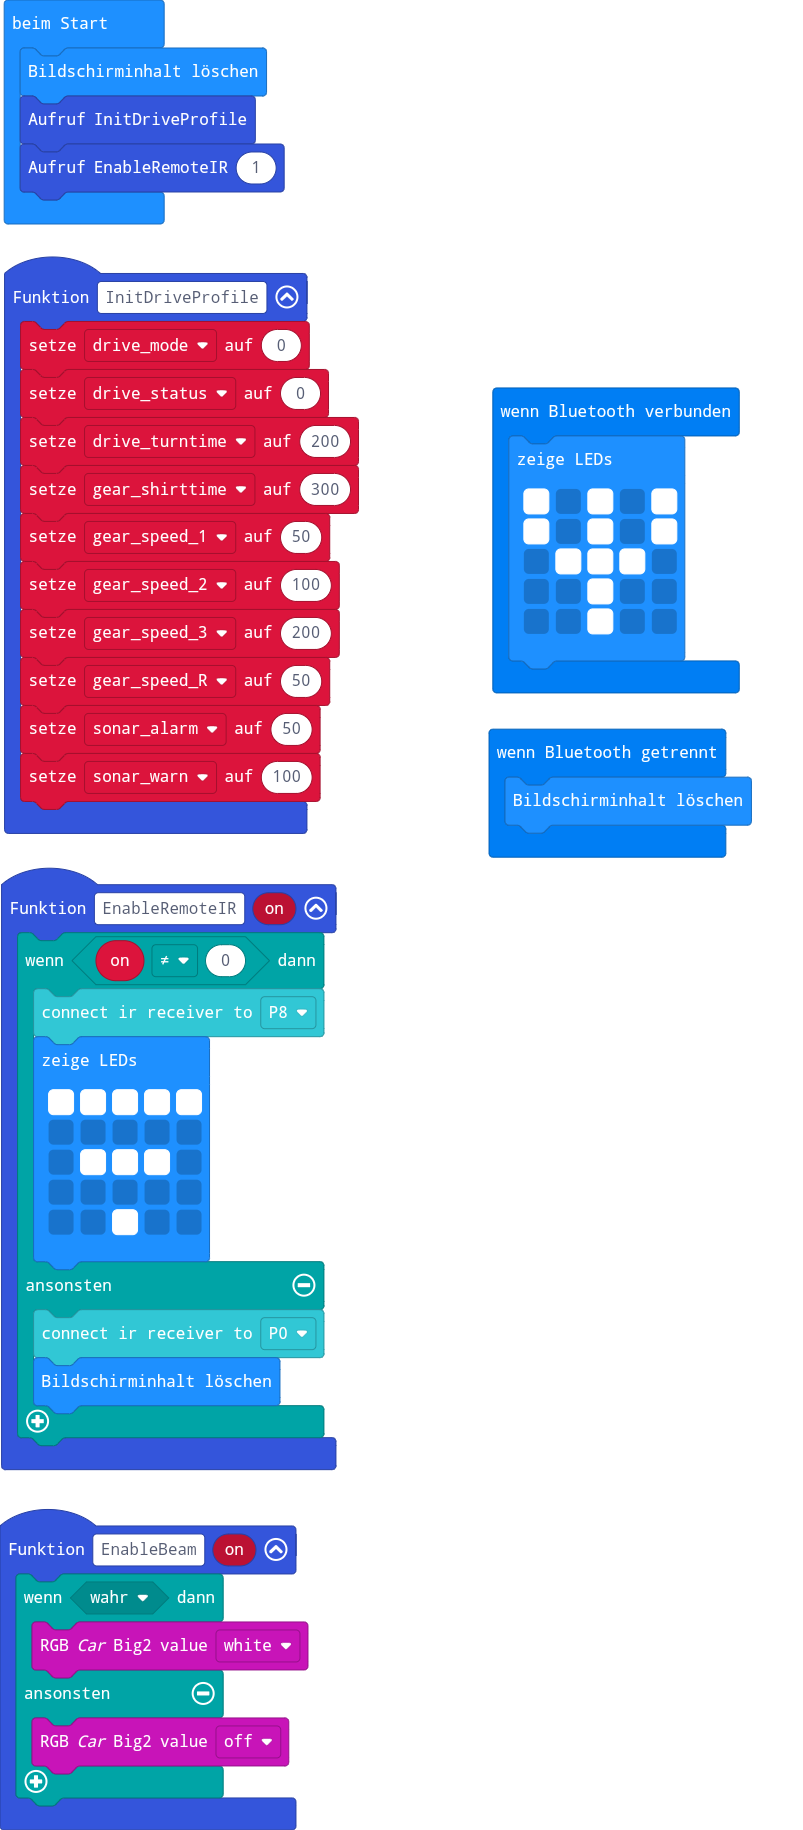
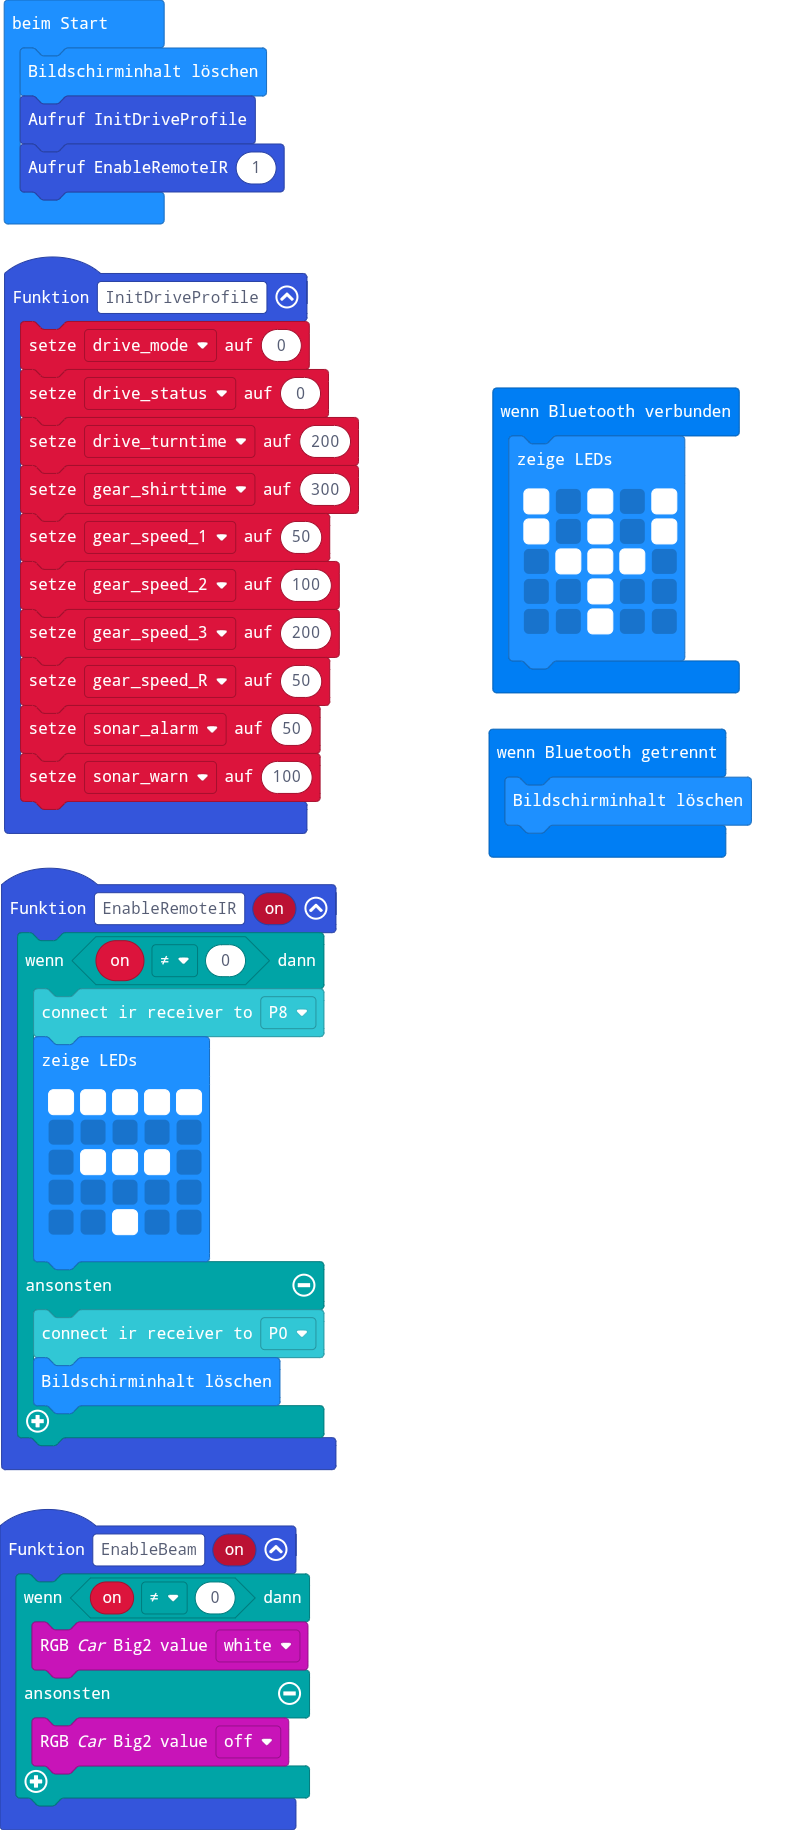
Fixed condition statement

Changed region(s): [[0.0934, 0.841, 0.4047, 0.9967]]

diff --git a/main.ts b/main.ts
@@ -11,7 +11,7 @@ function InitDriveProfile () {
     sonar_warn = 100
 }
 function EnableBeam (on: number) {
-    if (true) {
+    if (on != 0) {
         OSOYOO_Robot.RGB_Car_Big2(OSOYOO_Robot.enColor.White)
     } else {
         OSOYOO_Robot.RGB_Car_Big2(OSOYOO_Robot.enColor.OFF)
